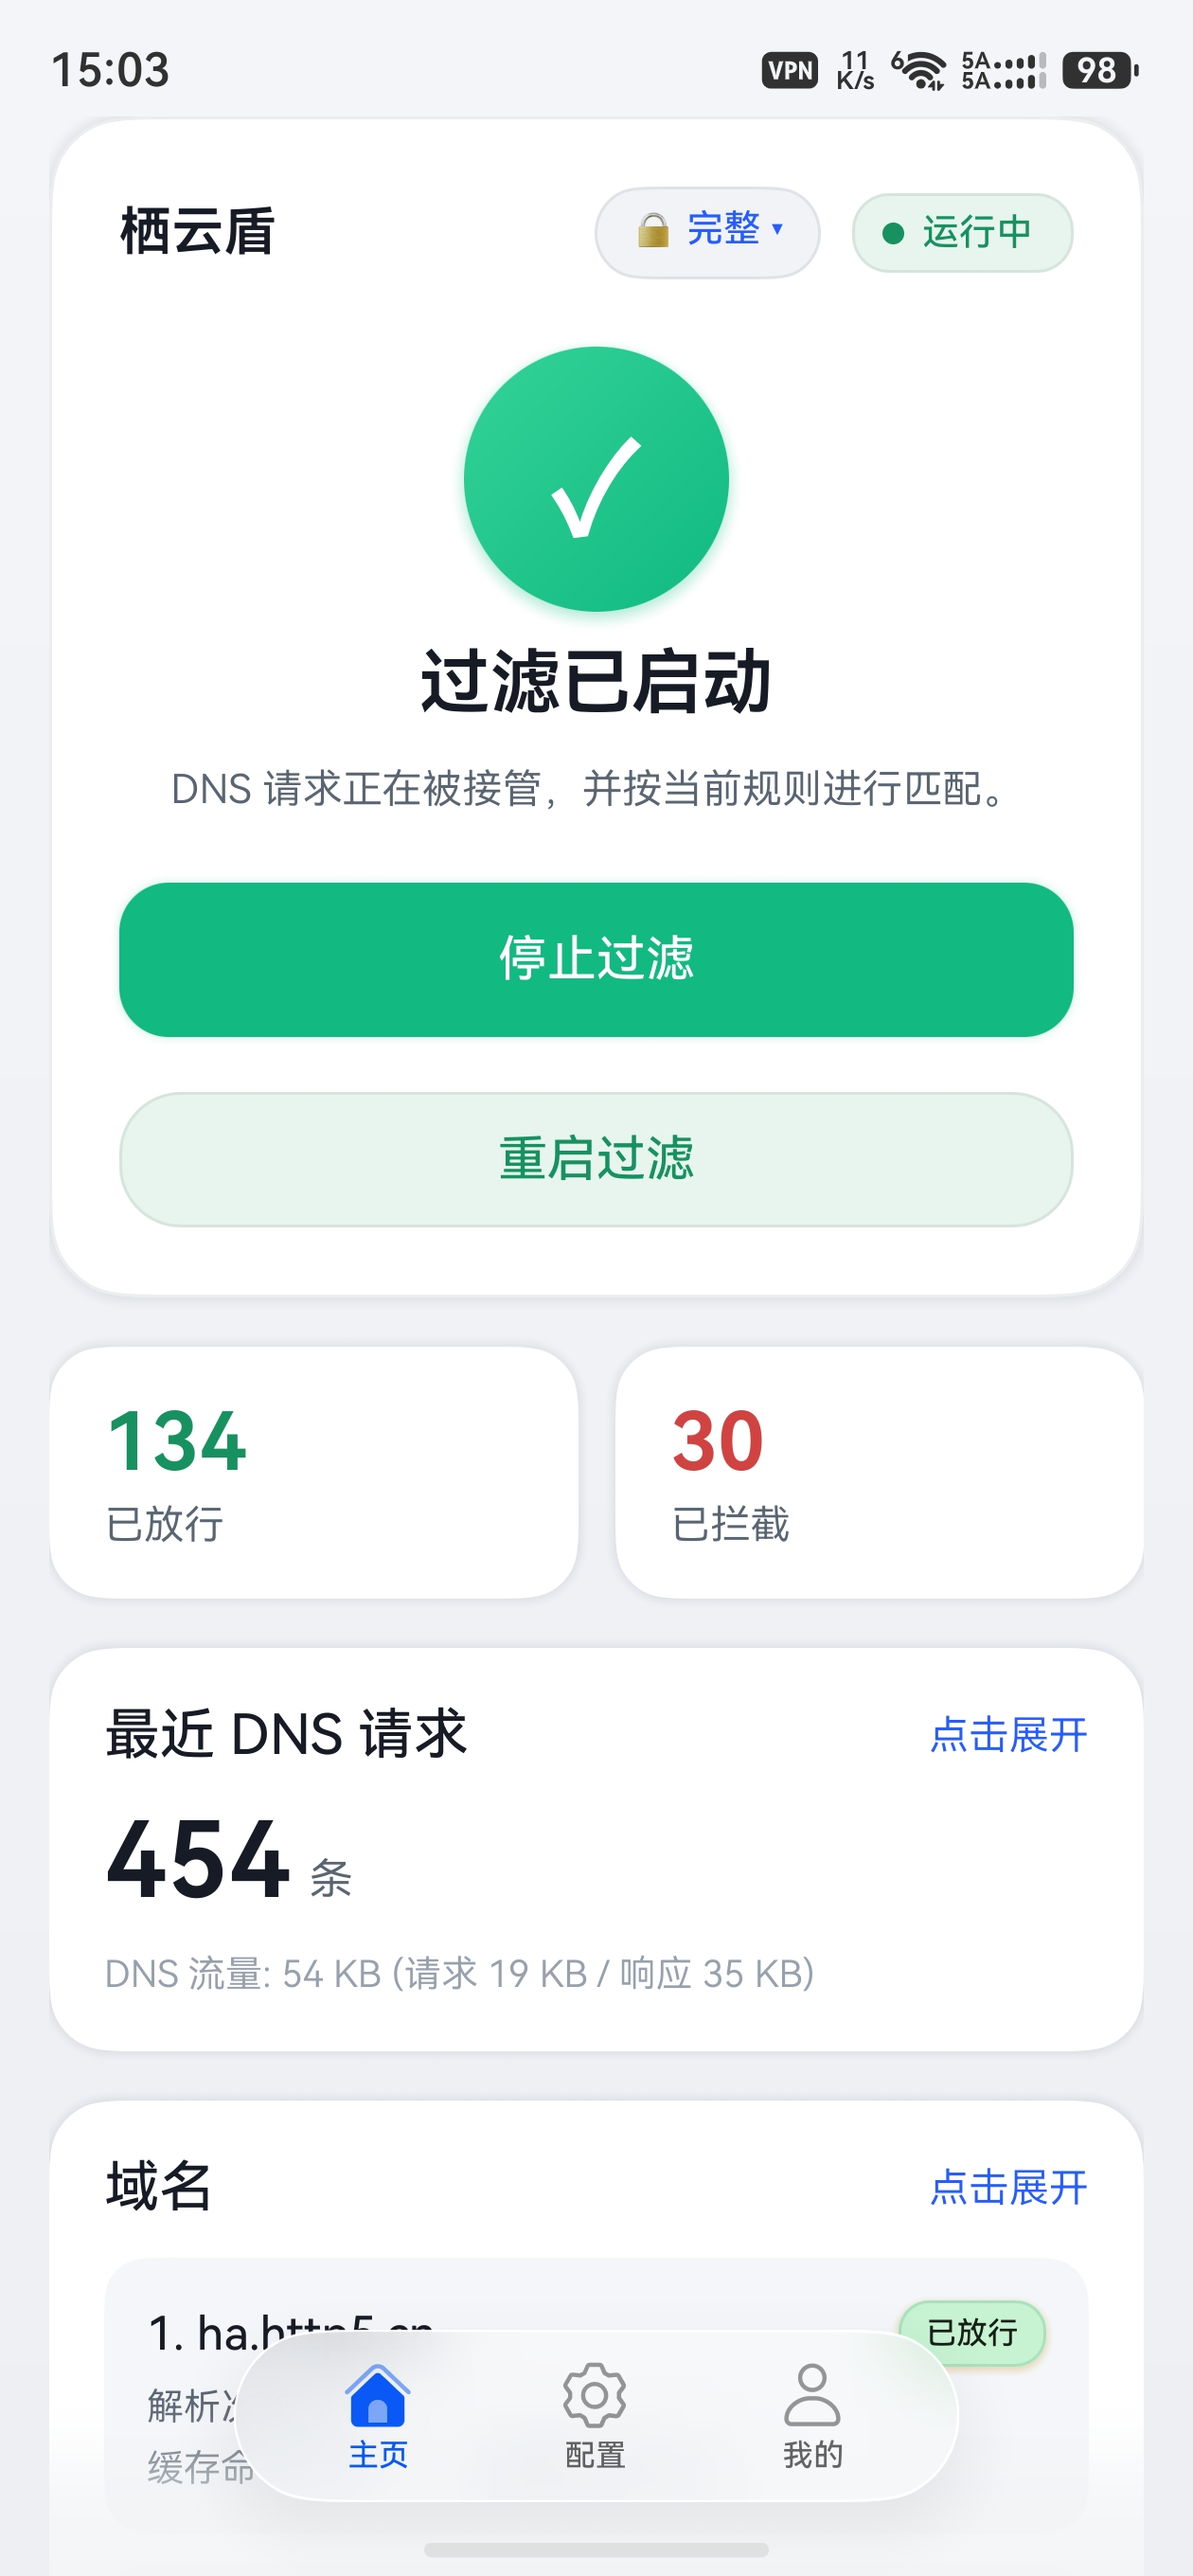
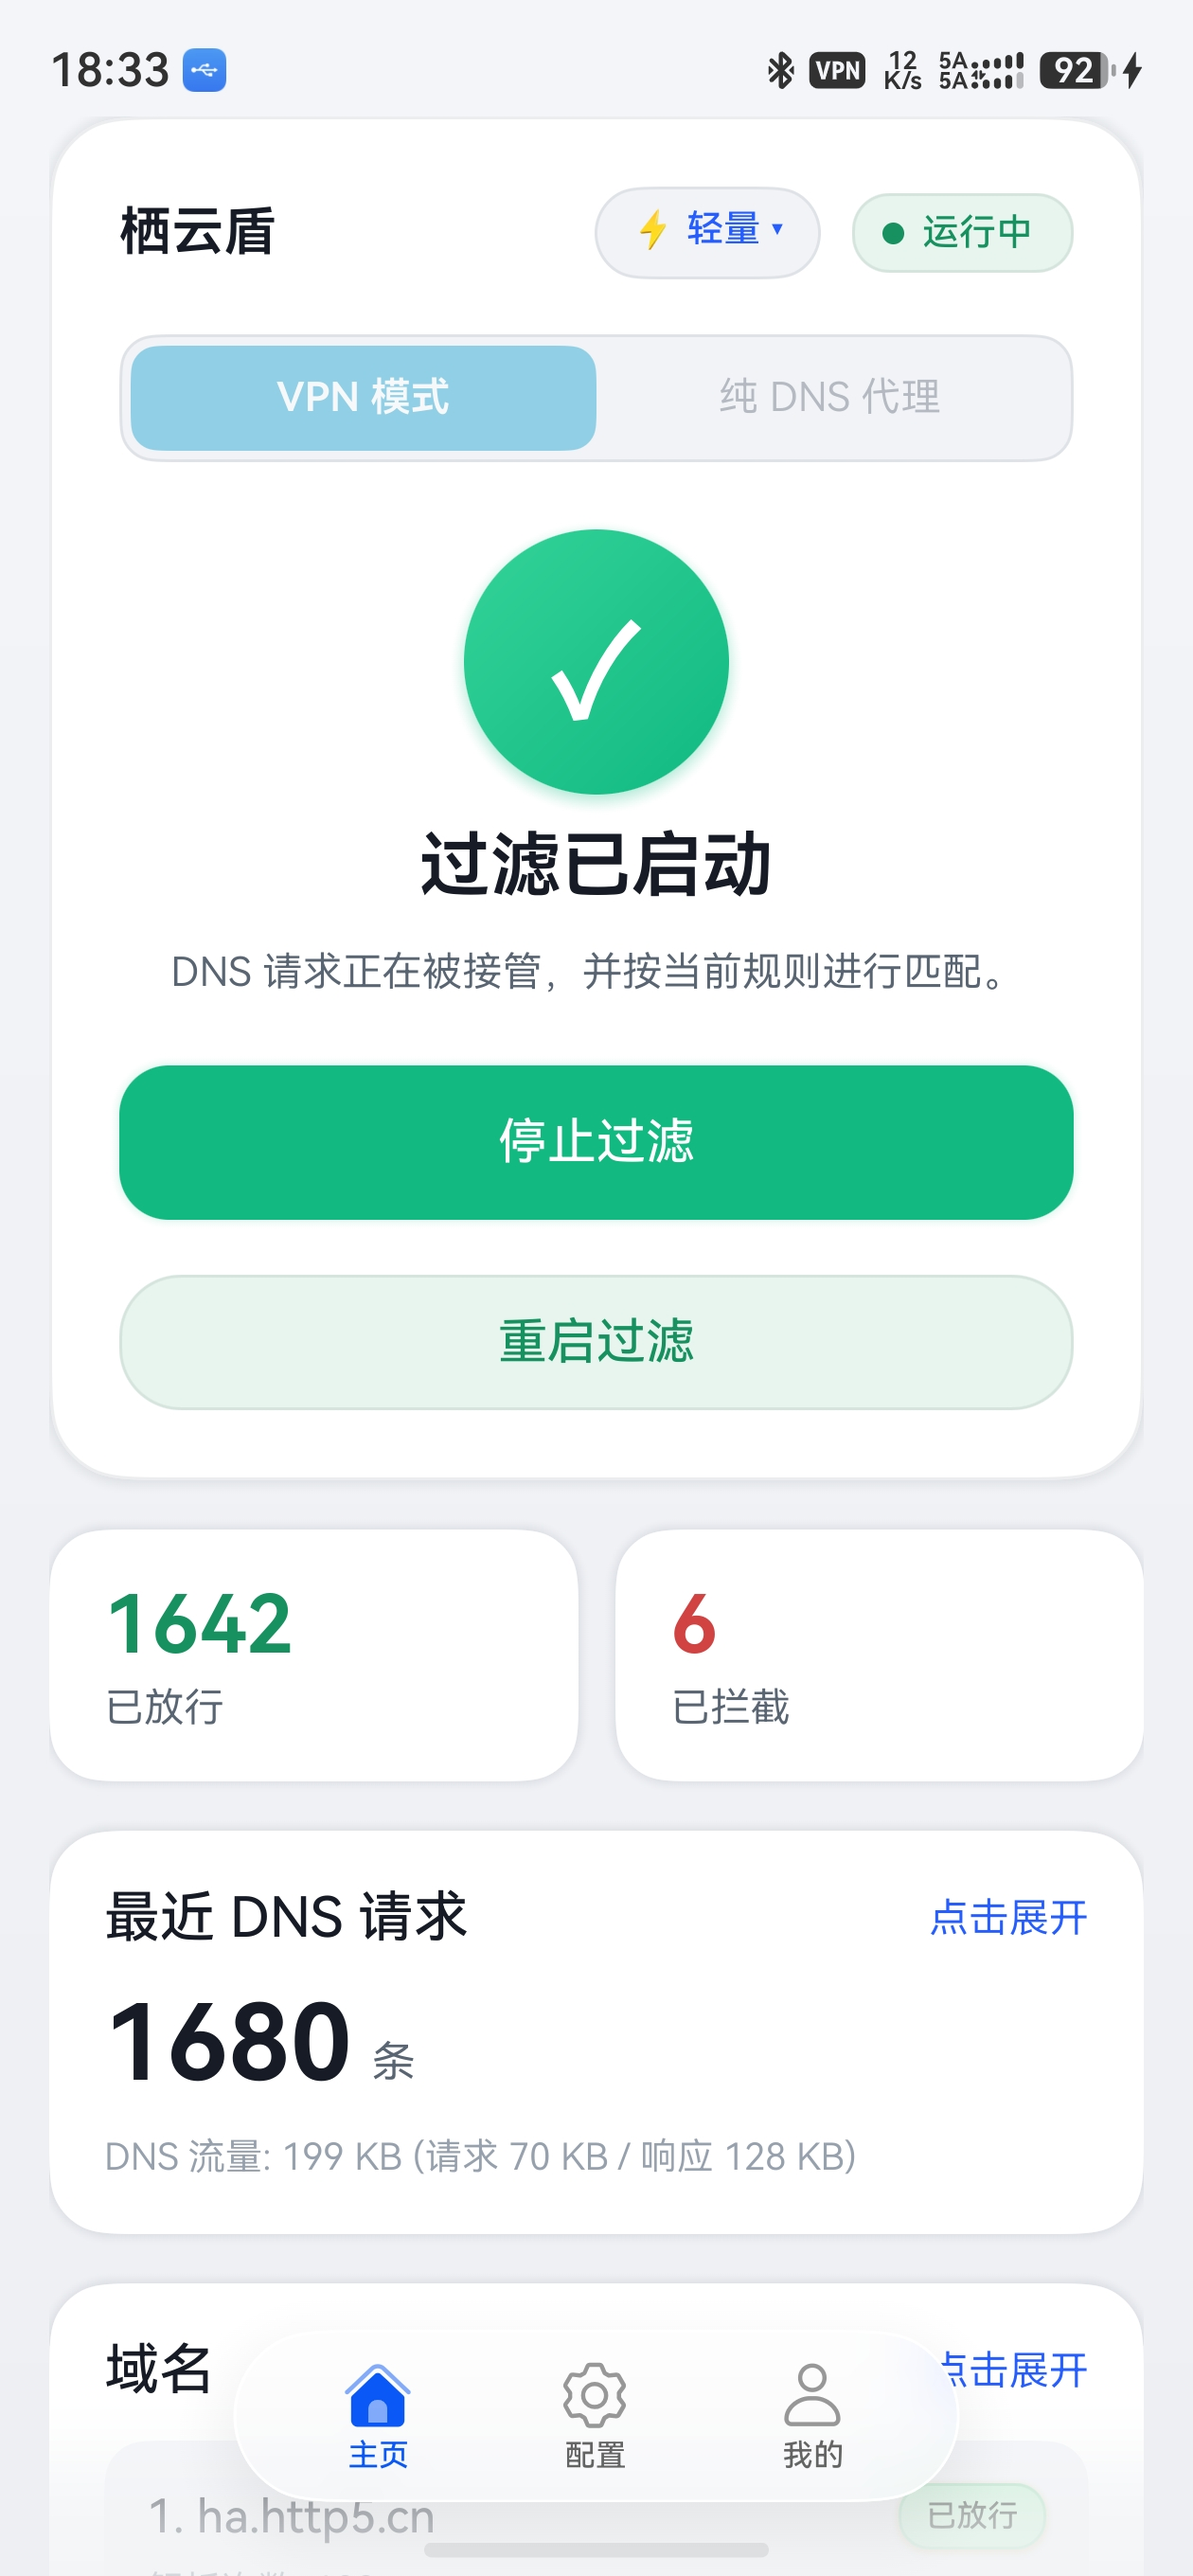
update to 0.0.4

diff --git a/README-en.md b/README-en.md
@@ -71,7 +71,7 @@ Of course, you can also build and install the app directly with **DevEco Studio*
 
 ## Changelog
 
-Current version: **v0.0.3**. The full bilingual changelog is in [`docs/CHANGELOG.md`](./docs/CHANGELOG.md).
+Current version: **v0.0.4**. The latest bilingual changelog is in [`docs/CHANGELOG-0.0.4.md`](./docs/CHANGELOG-0.0.4.md); older versions are in [`docs/CHANGELOG-0.0.3.md`](./docs/CHANGELOG-0.0.3.md).
 
 ## Overview
 
@@ -93,6 +93,15 @@ The app now supports **two filtering engines**, switchable directly from a **dro
 - **Full mode (AdGuardHome)**: wires in the ported `AdGuardHome` filtering core from `native/adguardhome-ohos-lib/` for broader rule compatibility, and unlocks **blocked services, online rule subscriptions, DNS rewrites, advanced DNS settings, and the AdGuardHome dashboard**; it is more resource-intensive and can be enabled on demand.
 
 > For power usage and mobile suitability, the default remains the lightweight mode; full mode is wired in as an optional engine and is still being polished. Subscriptions, rewrites, advanced DNS, and the dashboard only take effect while the full engine is running.
+
+### Network mode: VPN / DNS proxy (coexists with another VPN)
+
+Besides the engine, the home page also lets you switch the **network mode** (orthogonal to the engine choice):
+
+- **VPN mode (default)**: routes device-wide DNS traffic through a local VPN.
+- **DNS proxy mode**: runs the filtering engine as a **local DNS server without a VPN** (`127.0.0.1`, TCP only), so it can **coexist with another VPN / proxy app**. Point your proxy app's DNS upstream at `tcp://127.0.0.1:<port>` to filter while proxying; the port is configurable in Settings and auto-advances to the next free port when busy.
+
+> Due to a HarmonyOS limitation, only **TCP** loopback works across apps (UDP does not), so the peer proxy must support a `tcp://` DNS upstream (e.g. `mihomo` / `clash-meta`, `sing-box`). Enabling "Background keep-alive" is recommended so it keeps running in the background.
 
 ### Compatibility scope of the current lightweight engine
 
@@ -127,7 +136,8 @@ So the more accurate description of this project today is: a **HarmonyOS local D
 ## Features
 
 - **Dual filtering engine**: lightweight / full (AdGuardHome), switchable from a dropdown on the home page.
-- **Local DNS filtering**: routes DNS traffic through a local VPN workflow.
+- **Network mode (coexists with another VPN)**: VPN mode / DNS proxy mode, switchable via a segmented control on the home page. DNS proxy mode uses no VPN and runs the filtering engine as a local DNS server (`tcp://127.0.0.1:<port>`) for other proxy apps to use; the port is configurable in Settings and auto-advances on conflict.
+- **Local DNS filtering**: routes DNS traffic through a local VPN or a pure DNS proxy.
 - **Rule management**: supports importing, editing, enabling, and exporting AdGuard-style DNS rules.
 - **Full-mode-only capabilities**: blocked services (one-tap block common services, with tap-to-view of the actual domain rules), online rule subscriptions (with a recommended list library), DNS rewrites, advanced DNS settings (blocking mode / upstream mode / cache / DNSSEC / rate limit), and the AdGuardHome dashboard (opens in the system browser).
 - **Custom upstream DNS**: multiple upstreams plus built-in presets (AliDNS / DNSPod / Baidu / AdGuard).
@@ -165,7 +175,7 @@ So the more accurate description of this project today is: a **HarmonyOS local D
 - **Near term**: keep polishing full-mode stability and power usage, and add clearer rule-compatibility notes and build-artifact documentation.
 - **Mid to long term**: further align the capabilities of the lightweight and full modes, and improve the mobile background experience and release flow.
 
-> Per-version details are in [`docs/CHANGELOG.md`](./docs/CHANGELOG.md).
+> Per-version details are in [`docs/CHANGELOG-0.0.4.md`](./docs/CHANGELOG-0.0.4.md) (and [`docs/CHANGELOG-0.0.3.md`](./docs/CHANGELOG-0.0.3.md)).
 
 ## Repository Layout
 

diff --git a/README.md b/README.md
@@ -71,7 +71,7 @@
 
 ## 更新日志
 
-当前版本：**v0.0.3**。完整的中英双语更新日志见 [`docs/CHANGELOG.md`](./docs/CHANGELOG.md)。
+当前版本：**v0.0.4**。最新中英双语更新日志见 [`docs/CHANGELOG-0.0.4.md`](./docs/CHANGELOG-0.0.4.md)；历史版本见 [`docs/CHANGELOG-0.0.3.md`](./docs/CHANGELOG-0.0.3.md)。
 
 ## 项目概览
 
@@ -93,6 +93,15 @@
 - **完整模式（AdGuardHome）**：接入 `native/adguardhome-ohos-lib/` 移植的 `AdGuardHome` 过滤内核，提供更完整的规则兼容性，并解锁**服务屏蔽、在线规则订阅、DNS 重写、DNS 高级设置、AdGuardHome 管理面板**等能力；相对更耗资源，按需开启。
 
 > 出于功耗与移动端场景适配考虑，默认仍为轻量级模式；完整模式作为可选项已经接入，仍在持续打磨。其中订阅、重写、高级 DNS、管理面板等能力仅在完整引擎运行时生效。
+
+### 网络模式：VPN / 纯 DNS 代理（可与其他 VPN 共存）
+
+除了引擎，首页还可切换**网络模式**（与引擎选择相互正交）：
+
+- **VPN 模式（默认）**：通过本地 VPN 接管全设备 DNS 流量。
+- **纯 DNS 代理模式**：**不开启 VPN**，把过滤引擎作为本地 DNS 服务器（`127.0.0.1`，仅 TCP）运行，从而**与其他 VPN / 代理 App 共存**。在你的代理软件里把 DNS 上游设为 `tcp://127.0.0.1:<端口>` 即可边代理边过滤；端口可在设置页自定义，被占用时会自动顺延到下一个空闲端口。
+
+> 受 HarmonyOS 限制，跨 App 仅 **TCP** 回环可用（UDP 不可用），因此对端代理需支持 `tcp://` 形式的 DNS 上游（如 `mihomo` / `clash-meta`、`sing-box`）。建议开启「后台保活」以维持后台运行。
 
 ### 当前轻量级规则引擎的兼容范围
 
@@ -127,7 +136,8 @@
 ## 功能特性
 
 - **双过滤引擎**：轻量级 / 完整（AdGuardHome），首页一键下拉切换。
-- **本地 DNS 过滤**：基于本地 VPN 模式接管 DNS 流量。
+- **网络模式（与其他 VPN 共存）**：VPN 模式 / 纯 DNS 代理模式，首页分段切换。纯 DNS 代理模式不占用 VPN，将过滤引擎作为本地 DNS 服务器（`tcp://127.0.0.1:<端口>`）供其他代理 App 接入；端口可在设置页自定义，冲突时自动顺延。
+- **本地 DNS 过滤**：通过本地 VPN 或纯 DNS 代理接管 DNS 流量。
 - **规则管理**：支持导入、编辑、启停、导出兼容 AdGuard 风格的 DNS 规则。
 - **完整模式专属能力**：服务屏蔽（一键屏蔽常见服务，可点开查看具体域名规则）、在线规则订阅（含推荐规则库）、DNS 重写、DNS 高级设置（拦截方式 / 上游模式 / 缓存 / DNSSEC / 限速）、AdGuardHome 管理面板（外部浏览器打开）。
 - **自定义上游 DNS**：支持填写多条上游与内置预设（AliDNS / DNSPod / Baidu / AdGuard）。
@@ -165,7 +175,7 @@
 - **近期**：持续打磨完整模式的稳定性与功耗、补充规则兼容说明与构建产物文档。
 - **中长期**：进一步对齐轻量级与完整模式的能力，优化移动端常驻体验与发布流程。
 
-> 各版本详细变更见 [`docs/CHANGELOG.md`](./docs/CHANGELOG.md)。
+> 各版本详细变更见 [`docs/CHANGELOG-0.0.4.md`](./docs/CHANGELOG-0.0.4.md)（及 [`docs/CHANGELOG-0.0.3.md`](./docs/CHANGELOG-0.0.3.md)）。
 
 ## 仓库结构
 

diff --git a/docs/CHANGELOG-0.0.4.md b/docs/CHANGELOG-0.0.4.md
@@ -1,0 +1,41 @@
+# 更新日志 / Changelog — v0.0.4
+
+本文档记录 `栖云盾 / home_cloud_shield` v0.0.4 的主要变更，中英双语。
+This file records the notable changes of `栖云盾 / home_cloud_shield` v0.0.4 in both Chinese and English.
+
+格式参考 [Keep a Changelog](https://keepachangelog.com/)，版本号遵循 [语义化版本](https://semver.org/lang/zh-CN/)。
+The format is based on [Keep a Changelog](https://keepachangelog.com/) and the project adheres to [Semantic Versioning](https://semver.org/).
+
+历史版本见 [`CHANGELOG-0.0.3.md`](./CHANGELOG-0.0.3.md)。/ Older versions are in [`CHANGELOG-0.0.3.md`](./CHANGELOG-0.0.3.md).
+
+---
+
+## [0.0.4] - 2026-06-08
+
+相对 `v0.0.3` 的变更。/ Changes since `v0.0.3`.
+
+### 中文
+
+#### 新增
+
+- **DNS 代理共存模式**（首页「纯 DNS 代理」）：**不开启 VPN**，把过滤引擎作为本地 DNS 服务器运行，从而与其他 VPN / 代理 App **共存**（响应 [issue #1](https://github.com/Tlntin/home-cloud-shield/issues/1)）。在你的代理软件里把 DNS 上游设为 `tcp://127.0.0.1:<端口>` 即可边代理边过滤。轻量级与完整两种引擎都支持此模式；建议开启「后台保活」以维持后台运行。
+  - 受 HarmonyOS 限制，跨 App 仅 **TCP** 回环可用（UDP 不可用），因此对端代理需支持 `tcp://` 形式的 DNS 上游（如 mihomo / clash-meta、sing-box）。
+- **首页两轴选择**：新增「网络模式」分段控件（**VPN 模式 / 纯 DNS 代理**），与「引擎」（轻量 / 完整）下拉相互正交；主启动按钮随所选模式切换。
+- **自定义 DNS 代理端口**（设置页，默认 `5354`）。
+- **自定义 AdGuardHome 管理面板端口**（设置页，默认 `3000`，仅完整引擎）。
+- **端口冲突自动跳过**：启动时若所选端口被占用，自动顺延到下一个空闲端口，并提示实际使用的端口。
+
+### English
+
+#### Added
+
+- **DNS proxy coexistence mode** ("DNS Proxy" on the home page): run the filtering engine as a **local DNS server without a VPN**, so it can **coexist with another VPN / proxy app** (addresses [issue #1](https://github.com/Tlntin/home-cloud-shield/issues/1)). Point your proxy app's DNS upstream at `tcp://127.0.0.1:<port>` to filter while proxying. Both the lightweight and full engines support this mode; enabling "Background keep-alive" is recommended so it keeps running in the background.
+  - Due to a HarmonyOS limitation, only **TCP** loopback works across apps (UDP does not), so the peer proxy must support a `tcp://` DNS upstream (e.g. mihomo / clash-meta, sing-box).
+- **Two-axis selection on the home page**: a new **Network mode** segmented control (**VPN Mode / DNS Proxy**), orthogonal to the **Engine** (Lightweight / Full) dropdown; the primary button follows the selected mode.
+- **Configurable DNS proxy port** (Settings, default `5354`).
+- **Configurable AdGuardHome panel port** (Settings, default `3000`, full engine only).
+- **Automatic port-conflict skip**: if the chosen port is busy at start, it advances to the next free port and shows the port actually in use.
+
+---
+
+[0.0.4]: https://github.com/Tlntin/home-cloud-shield/compare/v0.0.3...v0.0.4
